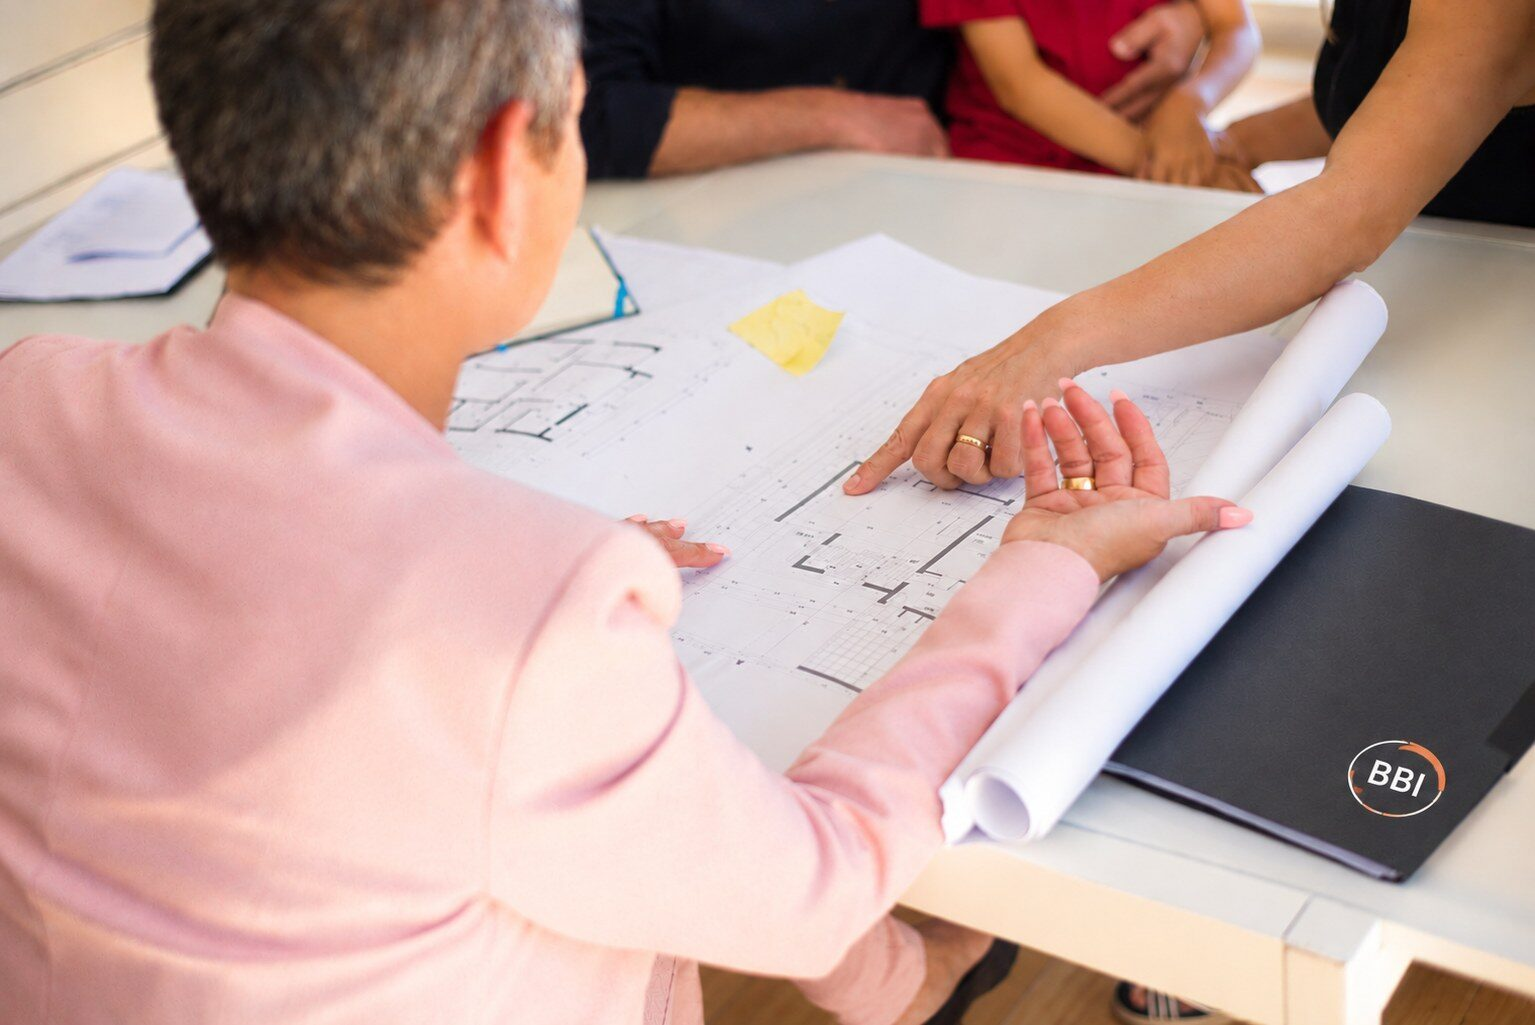
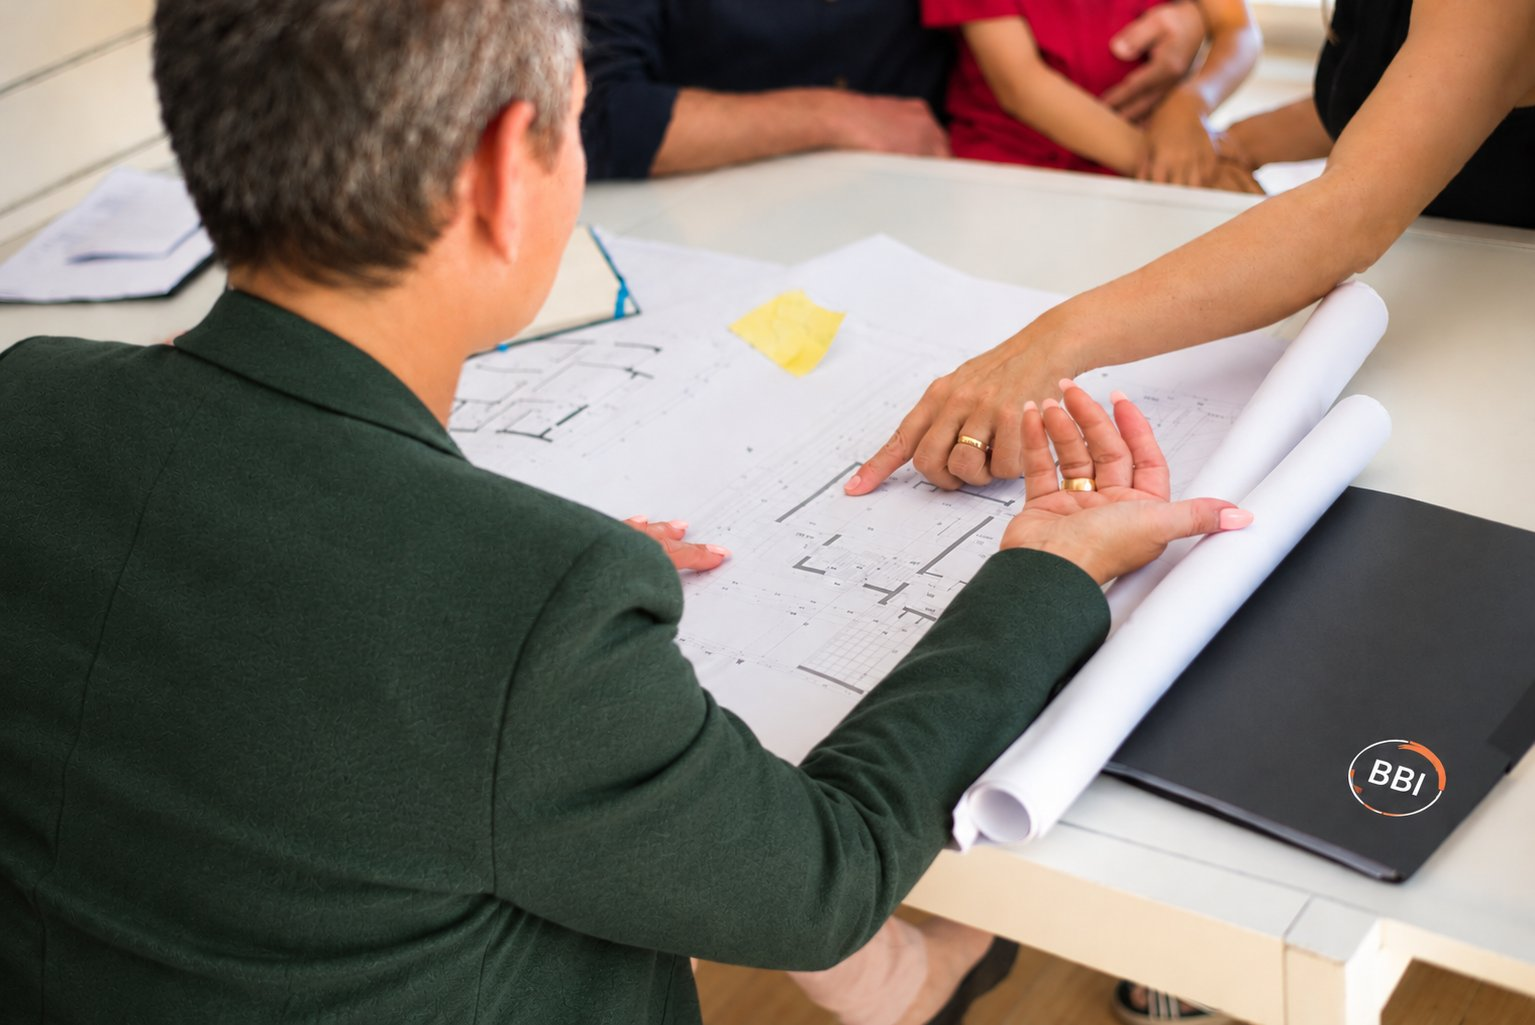
Hero-Bild ausgetauscht (Beratung am Bauplan)
Claude-Session: https://claude.ai/code/session_01Tg6wr7DBZunMMBzzwZ9dmK

diff --git a/index.html b/index.html
@@ -486,7 +486,7 @@
         <a href="tel:+494216594806" class="hero-phone">Oder direkt anrufen: 0421 6594806</a>
       </div>
       <div class="hero-art">
-        <img class="hero-photo" src="hero-bauplan.jpg" alt="Zwei Personen besprechen gemeinsam einen Grundriss auf dem Tisch" fetchpriority="high" decoding="async">
+        <img class="hero-photo" src="hero-bauplan.jpg" alt="Beratungsgespräch am Bauplan: Eine Familie bespricht gemeinsam mit der BBI den Grundriss" fetchpriority="high" decoding="async">
       </div>
     </div>
   </section>
